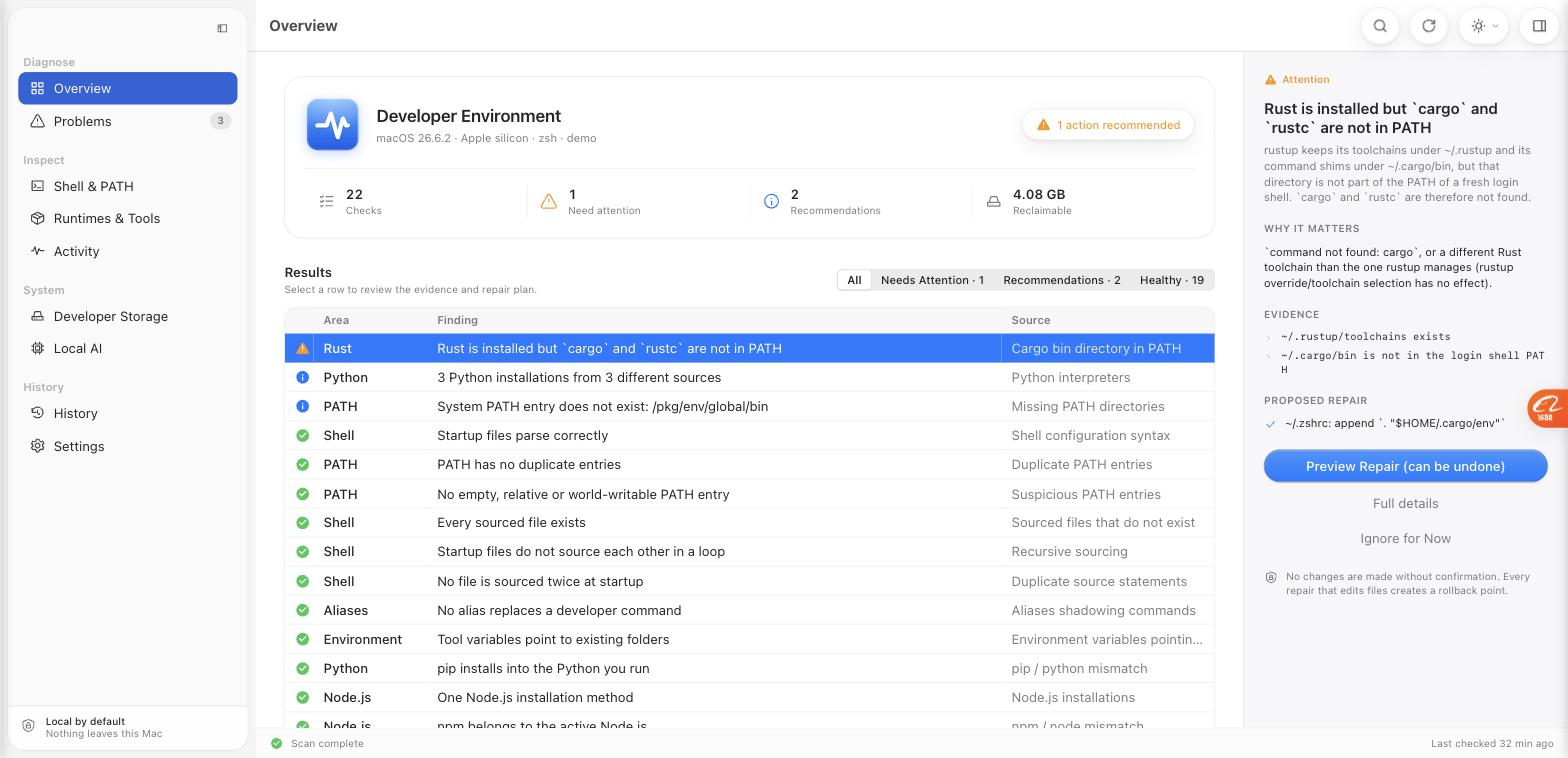
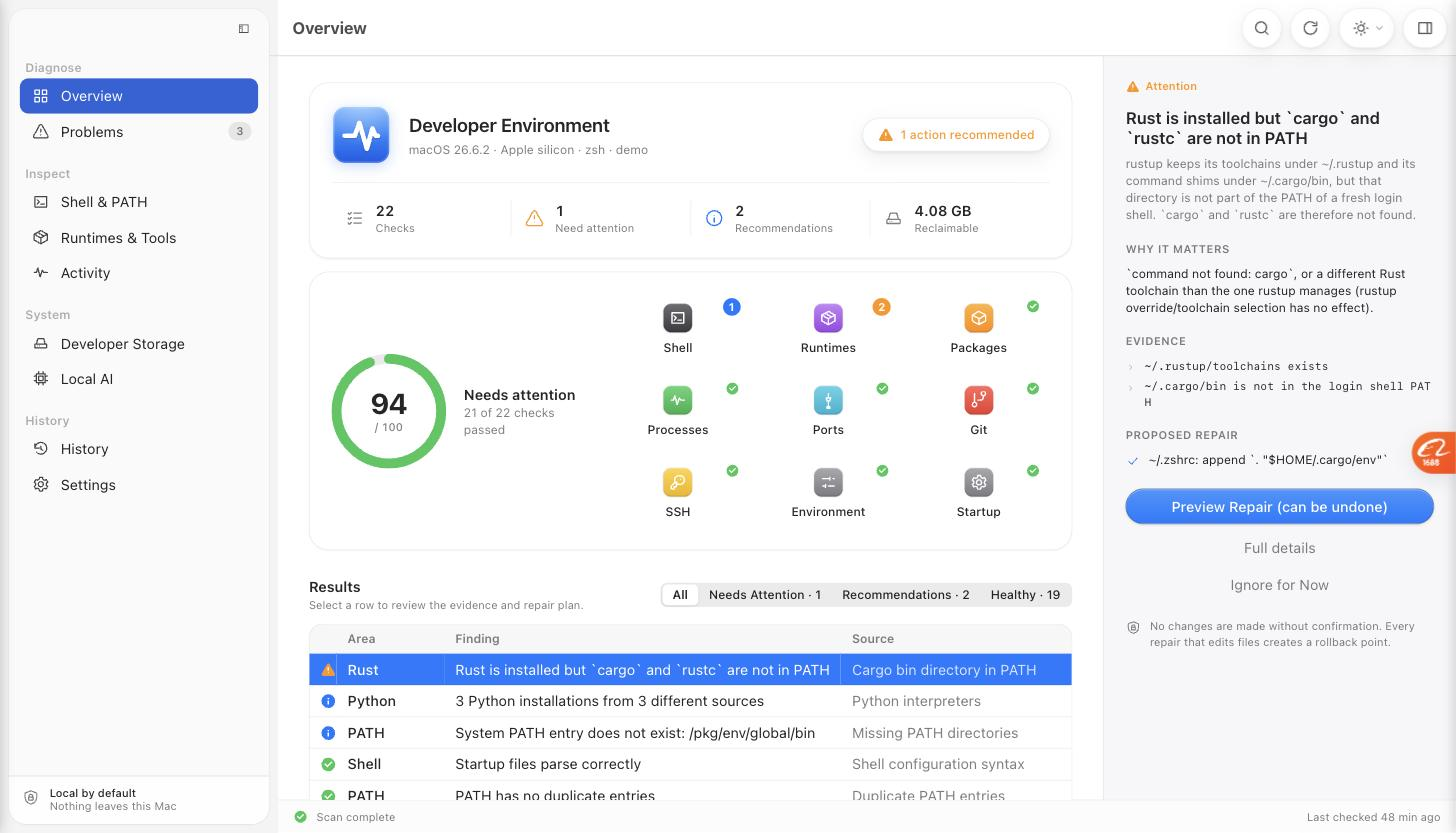
desktop: dashboard ring, Day/Night/System theme, prototype-exact geometry
- Overview: new dashboard card with a health ring and one tile per area
  (icon, count badge or green check); clicking a tile filters the results.
- Appearance: System / Day / Night applied to the native window through a
  new set_window_theme command, plus a Settings card (theme + Liquid Glass).
- Sidebar and toolbar geometry re-measured against the native prototype
  with DOM rects: toggle centre 221/26, rows 32pt from y 71.5, icon centre
  x 37, label x 55, badge 207..228, 36/50/40pt toolbar buttons with 8pt gaps.
- README highlights and screenshots refreshed.

Claude-Session: https://claude.ai/code/session_0154GFVQRPcC9vkXZbvatEC7

diff --git a/apps/desktop/src/styles.css b/apps/desktop/src/styles.css
@@ -99,13 +99,13 @@ p { margin: 5px 0; }
 .sidebar { position: absolute; left: 8px; top: 8px; bottom: 8px; width: 236px; border-radius: 16px; background: var(--bg-sidebar); box-shadow: 0 0 0 0.5px var(--sidebar-edge), 0 1px 2px rgba(0,0,0,0.04); display: flex; flex-direction: column; overflow: hidden; transition: transform .18s ease, opacity .18s ease; }
 html.no-tauri .sidebar { background: var(--bg-sidebar-opaque); }
 .window.sidebar-hidden .sidebar { transform: translateX(-260px); opacity: 0; pointer-events: none; }
-.sidebar-head { height: 40px; flex: none; display: flex; align-items: center; justify-content: flex-end; padding: 0 13px 0 76px; }
+.sidebar-head { height: 36px; flex: none; display: flex; align-items: center; justify-content: flex-end; padding: 0 11px 0 76px; }
 .sidebar-head .icon-btn { width: 24px; height: 24px; color: var(--toolbar-icon); }
 .sidebar-head .icon-btn .icon { width: 20px; height: 20px; }
-.sidebar-list { flex: 1; overflow: auto; padding: 7px 10px 8px; }
+.sidebar-list { flex: 1; overflow: auto; padding: 11px 10px 8px; }
 .side-section { height: 13px; line-height: 13px; margin: 16px 0 3px; padding: 0 5px; font-size: 11px; font-weight: 600; color: var(--sidebar-section); }
 .sidebar-list > div:first-child > .side-section { margin-top: 0; }
-.side-row { display: flex; align-items: center; gap: 8px; width: 100%; height: 32px; padding: 0 6px 0 11px; border-radius: 8px; border: 0; background: none; color: var(--label); font: inherit; font-size: 13px; text-align: left; margin: 0; }
+.side-row { display: flex; align-items: center; gap: 10px; width: 100%; height: 32px; padding: 0 6px 0 11px; border-radius: 8px; border: 0; background: none; color: var(--label); font: inherit; font-size: 13px; text-align: left; margin: 0; }
 .side-row:hover { background: var(--fill-3); }
 .side-row .icon { width: 16px; height: 16px; flex: none; color: var(--sidebar-icon); stroke-width: 1.7; }
 .side-row.active .icon { color: #fff; }
@@ -132,15 +132,15 @@ html.no-tauri .sidebar { background: var(--bg-sidebar-opaque); }
 .content.narrow { max-width: 1160px; }
 
 /* ---------- glass controls ---------- */
-.tb-btn { position: relative; display: inline-flex; align-items: center; justify-content: center; gap: 3px; height: 36px; min-width: 36px; padding: 0 10px; border-radius: var(--pill); border: 0.5px solid var(--glass-border); background: linear-gradient(var(--tint), var(--tint)), var(--glass-bg); -webkit-backdrop-filter: blur(24px) saturate(1.6); backdrop-filter: blur(24px) saturate(1.6); box-shadow: inset 0 1px 0 var(--glass-highlight), var(--glass-shadow); color: var(--label); font: inherit; }
+.tb-btn { position: relative; display: inline-flex; align-items: center; justify-content: center; gap: 3px; height: 36px; width: 36px; padding: 0; border-radius: var(--pill); border: 0.5px solid var(--glass-border); background: linear-gradient(var(--tint), var(--tint)), var(--glass-bg); -webkit-backdrop-filter: blur(24px) saturate(1.6); backdrop-filter: blur(24px) saturate(1.6); box-shadow: inset 0 1px 0 var(--glass-highlight), var(--glass-shadow); color: var(--label); font: inherit; }
 .tb-btn:hover { filter: brightness(1.03); }
 .tb-btn:active { transform: scale(0.96); }
 .tb-btn:disabled { opacity: 0.45; }
 .tb-btn { color: var(--toolbar-icon); }
 .tb-btn .icon { width: 17px; height: 17px; }
-.tb-btn.wide { padding: 0 8px 0 11px; }
+.tb-btn.wide { width: 50px; padding: 0 8px 0 11px; }
 .tb-btn .chev { width: 10px; height: 10px; color: var(--label-2); }
-.tb-group { display: inline-flex; gap: 10px; }
+.tb-group { display: inline-flex; gap: 8px; }
 
 .capsule { display: inline-flex; align-items: center; gap: 6px; padding: 7px 13px; font-size: 11px; font-weight: 500; border-radius: var(--pill); border: 0.5px solid var(--glass-border); background: linear-gradient(var(--tint), var(--tint)), var(--glass-bg); -webkit-backdrop-filter: blur(20px); backdrop-filter: blur(20px); box-shadow: inset 0 1px 0 var(--glass-highlight), var(--glass-shadow); }
 .capsule .icon { width: 15px; height: 15px; }
@@ -335,3 +335,21 @@ textarea.report { width: 100%; height: 280px; font-family: var(--mono); font-siz
 .onboarding .promise .p-body { font-size: 11.5px; color: var(--label-2); }
 
 @media (prefers-reduced-motion: reduce) { *, *::before, *::after { animation: none !important; transition: none !important; } }
+
+/* ---------- dashboard ---------- */
+.dashboard { margin-top: 12px; display: grid; grid-template-columns: 230px 1fr; gap: 20px; align-items: center; padding: 18px 20px; }
+.dash-score { display: flex; align-items: center; gap: 16px; }
+.ring { position: relative; }
+.ring svg { transform: rotate(-90deg); display: block; }
+.ring .num { position: absolute; inset: 0; display: flex; flex-direction: column; align-items: center; justify-content: center; font-weight: 700; font-size: 26px; letter-spacing: -0.02em; line-height: 1; font-variant-numeric: tabular-nums; }
+.ring .num small { font-size: 10px; font-weight: 500; color: var(--label-2); margin-top: 3px; letter-spacing: 0; }
+.dash-tiles { display: grid; grid-template-columns: repeat(auto-fill, minmax(112px, 1fr)); gap: 8px; }
+.dash-tile { display: flex; flex-direction: column; align-items: center; gap: 6px; padding: 10px 6px 8px; border-radius: 10px; border: 0.5px solid transparent; background: transparent; font: inherit; color: var(--label); position: relative; }
+.dash-tile:hover { background: var(--fill-4); border-color: var(--separator); }
+.dash-tile.active { background: var(--accent-soft); border-color: color-mix(in srgb, var(--accent) 40%, transparent); }
+.dash-tile .dt-label { font-size: 11px; font-weight: 500; white-space: nowrap; }
+.dash-tile .dt-ok { position: absolute; top: 6px; right: 8px; width: 13px; height: 13px; color: var(--green); }
+.dash-tile .dt-count { position: absolute; top: 5px; right: 7px; min-width: 16px; height: 16px; padding: 0 5px; border-radius: 8px; background: var(--blue); color: #fff; font-size: 10px; font-weight: 700; display: inline-flex; align-items: center; justify-content: center; }
+.dash-tile .dt-count.warn { background: var(--orange); }
+.tile { display: inline-flex; align-items: center; justify-content: center; color: #fff; flex: none; box-shadow: inset 0 -1px 0 rgba(0,0,0,0.12), inset 0 0.5px 0 rgba(255,255,255,0.35), 0 0.5px 1px rgba(0,0,0,0.25); }
+.tile .icon { stroke-width: 1.9; }

diff --git a/apps/desktop/src/components/Dashboard.tsx b/apps/desktop/src/components/Dashboard.tsx
@@ -1,0 +1,67 @@
+// Simple health dashboard: a score ring and one tile per area, after the macOS System Settings
+// look. Clicking a tile filters the results table below.
+import type { Category, HealthScore, Issue } from "../lib/types";
+import { CATEGORY_PLAIN } from "../lib/plain";
+import { Icon, type IconName } from "./Icons";
+import { Tile, type TileColor } from "./Tile";
+
+const AREA: Record<Category, { icon: IconName; color: TileColor }> = {
+  shell: { icon: "terminal", color: "graphite" },
+  runtimes: { icon: "shippingbox", color: "purple" },
+  package_managers: { icon: "box", color: "orange" },
+  processes: { icon: "waveform", color: "green" },
+  ports: { icon: "cable", color: "teal" },
+  ai_tools: { icon: "cpu", color: "pink" },
+  disk: { icon: "internaldrive", color: "indigo" },
+  git: { icon: "git", color: "red" },
+  ssh: { icon: "key", color: "yellow" },
+  containers: { icon: "box", color: "blue" },
+  environment: { icon: "sliders", color: "gray" },
+  services: { icon: "gear", color: "gray" },
+};
+
+export function HealthRing({ score, size = 104 }: { score: number; size?: number }) {
+  const stroke = 9;
+  const r = (size - stroke) / 2;
+  const c = 2 * Math.PI * r;
+  const color = score >= 85 ? "var(--green)" : score >= 60 ? "var(--orange)" : "var(--red)";
+  return (
+    <div className="ring" style={{ width: size, height: size }}>
+      <svg width={size} height={size} viewBox={`0 0 ${size} ${size}`}>
+        <circle cx={size / 2} cy={size / 2} r={r} stroke="var(--fill-2)" strokeWidth={stroke} fill="none" />
+        <circle cx={size / 2} cy={size / 2} r={r} stroke={color} strokeWidth={stroke} fill="none" strokeLinecap="round" strokeDasharray={c} strokeDashoffset={c * (1 - Math.max(0, Math.min(100, score)) / 100)} style={{ transition: "stroke-dashoffset .6s cubic-bezier(.2,.8,.2,1)" }} />
+      </svg>
+      <div className="num">{score}<small>/ 100</small></div>
+    </div>
+  );
+}
+
+export function Dashboard({ health, issues, selected, onSelect }: { health: HealthScore | undefined; issues: Issue[]; selected: Category | null; onSelect: (c: Category | null) => void }) {
+  const cats = (health?.categories ?? []).filter((c) => c.checks_run > 0 || c.issues > 0);
+  const label = !health ? "Not checked yet" : health.problems === 0 && health.warnings === 0 ? "Healthy" : health.problems === 0 ? "Almost perfect" : "Needs attention";
+  const sub = !health ? "Run a scan to see your score." : `${health.checks_passed} of ${health.checks_total} checks passed`;
+  return (
+    <div className="card dashboard">
+      <div className="dash-score">
+        <HealthRing score={health?.score ?? 0} />
+        <div><div className="headline">{label}</div><div className="caption secondary">{sub}</div></div>
+      </div>
+      <div className="dash-tiles">
+        {cats.map((c) => {
+          const meta = AREA[c.category];
+          const count = issues.filter((i) => i.category === c.category).length;
+          const attention = issues.some((i) => i.category === c.category && (i.severity === "critical" || i.severity === "high" || i.severity === "medium"));
+          const active = selected === c.category;
+          return (
+            <button key={c.category} className={`dash-tile ${active ? "active" : ""}`} onClick={() => onSelect(active ? null : c.category)} title={`${c.checks_run} check${c.checks_run === 1 ? "" : "s"} · ${count} finding${count === 1 ? "" : "s"}`}>
+              <Tile color={meta.color} icon={meta.icon} size={26} />
+              <span className="dt-label">{CATEGORY_PLAIN[c.category]}</span>
+              {count === 0 ? <Icon name="check-circle-fill" className="dt-ok" /> : <span className={`dt-count ${attention ? "warn" : ""}`}>{count}</span>}
+            </button>
+          );
+        })}
+        {cats.length === 0 && <div className="secondary caption">Areas appear here after the first scan.</div>}
+      </div>
+    </div>
+  );
+}

diff --git a/apps/desktop/src/pages/Overview.tsx b/apps/desktop/src/pages/Overview.tsx
@@ -1,10 +1,11 @@
 import { useMemo, useState } from "react";
 import { api } from "../lib/api";
 import { useAsync } from "../lib/useAsync";
-import type { DetectorMeta, Issue } from "../lib/types";
+import type { Category, DetectorMeta, Issue } from "../lib/types";
 import { findingFromIssue, healthyFinding, type Finding } from "../lib/plain";
 import { Button, ErrorBox, Loading, PageHeader, Segmented } from "../components/Basics";
 import { EnvironmentHeader } from "../components/EnvironmentHeader";
+import { Dashboard } from "../components/Dashboard";
 import { FindingInspector, FindingsTable, RepairSheet, detectorName, filterByLevel, useFindings, useRepairActions, type ResultFilter } from "../components/FindingsView";
 import { Icon } from "../components/Icons";
 import { Logo } from "../components/Logo";
@@ -33,6 +34,7 @@ export function OverviewPage({ refreshKey, refresh, detectors, inspector, onboar
   const issues = useAsync(() => api.issues(false), [refreshKey]);
   const storage = useAsync(() => api.lastStorage(), [refreshKey]);
   const [filter, setFilter] = useState<ResultFilter>("all");
+  const [area, setArea] = useState<Category | null>(null);
   const findings: Finding[] = useMemo(() => {
     const open = (issues.data ?? []).map((r) => findingFromIssue(r.issue, detectorName(detectors, r.issue.detector_id)));
     const reported = new Set(open.map((f) => f.detectorId));
@@ -40,7 +42,7 @@ export function OverviewPage({ refreshKey, refresh, detectors, inspector, onboar
     const order = { attention: 0, recommendation: 1, healthy: 2 };
     return [...open, ...healthy].sort((a, b) => order[a.level] - order[b.level]);
   }, [issues.data, report.data, detectors]);
-  const visible = useMemo(() => filterByLevel(findings, filter), [findings, filter]);
+  const visible = useMemo(() => filterByLevel(findings, filter).filter((f) => !area || f.category === area), [findings, filter, area]);
   const { selected, selectedKey, setSelectedKey, repairing, setRepairing } = useFindings(visible);
   const actions = useRepairActions(refresh);
   if (ov.loading && !ov.data) return <Loading what="overview" />;
@@ -53,6 +55,7 @@ export function OverviewPage({ refreshKey, refresh, detectors, inspector, onboar
       <div className="content">
         {onboarding && <Onboarding onStart={() => { onOnboardingDone(); onScan(); }} onSkip={onOnboardingDone} />}
         <EnvironmentHeader overview={o} reclaimable={reclaimable} />
+        <Dashboard health={o.health} issues={(issues.data ?? []).map((r) => r.issue)} selected={area} onSelect={setArea} />
         {!o.health && !onboarding && (
           <div className="card" style={{ marginTop: 16 }}>
             <p className="subheadline">No scan yet. A quick scan takes about a second and changes nothing.</p>
@@ -60,7 +63,7 @@ export function OverviewPage({ refreshKey, refresh, detectors, inspector, onboar
           </div>
         )}
         {o.warnings.map((w, i) => <div key={i} className="notice">{w}</div>)}
-        <PageHeader title="Results" subtitle="Select a row to review the evidence and repair plan." actions={
+        <PageHeader title={area ? `Results · ${area === "package_managers" ? "Packages" : area.replace("_", " ")}` : "Results"} subtitle="Select a row to review the evidence and repair plan." actions={
           <Segmented value={filter} onChange={(v) => setFilter(v as ResultFilter)} options={[{ id: "all", label: "All" }, { id: "attention", label: `Needs Attention${counts.attention ? ` · ${counts.attention}` : ""}` }, { id: "recommendation", label: `Recommendations${counts.recommendation ? ` · ${counts.recommendation}` : ""}` }, { id: "healthy", label: `Healthy${counts.healthy ? ` · ${counts.healthy}` : ""}` }]} />
         } />
         <FindingsTable findings={visible} selected={selectedKey} onSelect={(f) => setSelectedKey(f.key)} empty={o.health ? "No results for this filter." : "Run a scan to see results."} />

diff --git a/apps/desktop/src/pages/MiscPages.tsx b/apps/desktop/src/pages/MiscPages.tsx
@@ -3,7 +3,8 @@ import { api, errorMessage } from "../lib/api";
 import { useAsync } from "../lib/useAsync";
 import { useNav } from "../lib/nav";
 import { formatBytes, formatDate, formatMs, shortenHome } from "../lib/format";
-import { Button, Card, DataTable, ErrorBox, KeyValue, Loading, PageHeader, PathLink, Pill, StatusPill, Switch, Term, usePrefs } from "../components/Basics";
+import { Button, Card, DataTable, ErrorBox, KeyValue, Loading, PageHeader, PathLink, Pill, Segmented, StatusPill, Switch, Term, usePrefs, type Appearance, type Glass } from "../components/Basics";
+import { Logo } from "../components/Logo";
 import { TransactionView } from "../components/TransactionView";
 
 export function ServicesPage({ refreshKey }: { refreshKey: number }) {
@@ -132,7 +133,7 @@ export function HistoryPage({ refreshKey }: { refreshKey: number }) {
 }
 
 export function SettingsPage({ autoScan, onAutoScan }: { autoScan: boolean; onAutoScan: (v: boolean) => void }) {
-  const { technical, setTechnical } = usePrefs();
+  const { technical, setTechnical, appearance, setAppearance, glass, setGlass } = usePrefs();
   const sys = useAsync(() => api.system(), []);
   const detectors = useAsync(() => api.detectors(), []);
   const [report, setReport] = useState<string | null>(null);
@@ -144,12 +145,18 @@ export function SettingsPage({ autoScan, onAutoScan }: { autoScan: boolean; onAu
   return (
     <div className="page">
       <div className="grid cols-2">
+        <Card title="Appearance">
+          <div className="switch-row"><span>Theme<div className="secondary caption">Applies to the window, the sidebar glass and the title bar.</div></span><Segmented value={appearance} onChange={(v) => setAppearance(v as Appearance)} options={[{ id: "system", label: "System" }, { id: "light", label: "Day" }, { id: "dark", label: "Night" }]} /></div>
+          <div className="hairline" />
+          <div className="switch-row"><span>Liquid Glass<div className="secondary caption">Tinted adds a hint of the accent colour to glass controls.</div></span><Segmented value={glass} onChange={(v) => setGlass(v as Glass)} options={[{ id: "clear", label: "Clear" }, { id: "tinted", label: "Tinted" }]} /></div>
+        </Card>
         <Card title="Preferences">
           <Switch on={autoScan} onChange={onAutoScan} label={<span>Check automatically when DevDoctor opens<div className="muted small">Runs a quick check if the last one is older than an hour.</div></span>} />
           <div className="hairline" />
           <Switch on={technical} onChange={setTechnical} label={<span>Show technical details<div className="muted small">Detector ids, raw severities, evidence and diffs shown by default.</div></span>} />
         </Card>
         <Card title="About">
+          <div style={{ display: "flex", alignItems: "center", gap: 14, marginBottom: 12 }}><Logo size={48} /><div><div className="title3">DevDoctor</div><div className="secondary caption">Find what broke your development environment.</div></div></div>
           {sys.data && <KeyValue rows={[["Version", sys.data.devdoctor_version], ["Data folder", <span className="mono selectable">{sys.data.data_dir}</span>], ["User", sys.data.user], ["Shell", `${sys.data.shell} (${sys.data.shell_path})`], ["macOS", `${sys.data.os.version} ${sys.data.os.build ?? ""} · ${sys.data.os.arch}`]]} />}
           <p className="muted small" style={{ marginTop: 10 }}>Everything runs on this Mac. No account, no telemetry, no network. Backups of every modified file live in the data folder.</p>
         </Card>

diff --git a/apps/desktop/src/App.tsx b/apps/desktop/src/App.tsx
@@ -69,6 +69,7 @@ function Shell() {
       setGlassState(g);
       setInspectorState(s.inspector !== false);
       applyAppearance(a, g);
+      api.setWindowTheme(a).catch(() => {});
       setSettingsLoaded(true);
     }).catch(() => setSettingsLoaded(true));
     const mq = window.matchMedia("(prefers-color-scheme: dark)");
@@ -128,7 +129,7 @@ function Shell() {
 
   const setTechnical = (v: boolean) => { setTechnicalState(v); api.setSetting("technical_details", v).catch(() => {}); };
   const setAutoScan = (v: boolean) => { setAutoScanState(v); api.setSetting("auto_scan_on_launch", v).catch(() => {}); };
-  const setAppearance = (v: Appearance) => { setAppearanceState(v); applyAppearance(v, glass); api.setSetting("appearance", v).catch(() => {}); };
+  const setAppearance = (v: Appearance) => { setAppearanceState(v); applyAppearance(v, glass); api.setWindowTheme(v).catch(() => {}); api.setSetting("appearance", v).catch(() => {}); };
   const setGlass = (v: Glass) => { setGlassState(v); applyAppearance(appearance, v); api.setSetting("glass", v).catch(() => {}); };
   const toggleInspector = () => { setInspectorState((i) => { api.setSetting("inspector", !i).catch(() => {}); return !i; }); };
   const finishOnboarding = () => { setOnboarding(false); api.setSetting("onboarding_done", true).catch(() => {}); };

diff --git a/apps/desktop/src/lib/plain.ts b/apps/desktop/src/lib/plain.ts
@@ -104,6 +104,7 @@ export const HEALTHY: Record<string, string> = {
 export interface Finding {
   key: string;
   level: Level;
+  category: Category;
   area: string;
   title: string;
   source: string;
@@ -116,6 +117,7 @@ export function findingFromIssue(issue: Issue, detectorName: string | undefined)
   return {
     key: issue.id,
     level: levelOf(issue.severity),
+    category: issue.category,
     area: areaOf(issue.detector_id, issue.category),
     title: issue.title,
     source: detectorName ?? issue.detector_id,
@@ -129,6 +131,7 @@ export function healthyFinding(run: DetectorRun, category: Category): Finding {
   return {
     key: `ok:${run.id}`,
     level: "healthy",
+    category,
     area: areaOf(run.id, category),
     title: HEALTHY[run.id] ?? `${run.name}: nothing found`,
     source: run.name,

diff --git a/apps/desktop/src/lib/demo.ts b/apps/desktop/src/lib/demo.ts
@@ -164,6 +164,7 @@ export async function mockInvoke<T>(cmd: string, args: Record<string, unknown> =
     case "set_setting": state.settings[String(args.key)] = args.value; return r(null);
     case "get_detectors": return r(detectors);
     case "reveal_path": return r(null);
+    case "set_window_theme": return r(null);
     case "export_report": return r({ generated_at: new Date().toISOString(), devdoctor_version: "0.1.0", sanitized: true, included: ["system information", "last scan results", "PATH", "shell startup files", "runtimes and tools", "startup services"], system, last_scan: state.report, path, shell, runtimes, packages, tools, services });
     default: throw new Error(`demo mode: unknown command ${cmd}`);
   }

diff --git a/apps/desktop/src/lib/api.ts b/apps/desktop/src/lib/api.ts
@@ -63,6 +63,7 @@ export const api = {
   setSetting: (key: string, value: unknown) => invoke<void>("set_setting", { key, value }),
   detectors: () => invoke<DetectorMeta[]>("get_detectors"),
   reveal: (path: string) => invoke<void>("reveal_path", { path }),
+  setWindowTheme: (theme: "system" | "light" | "dark") => (inTauri ? invoke<void>("set_window_theme", { theme }) : Promise.resolve()),
   exportReport: () => invoke<DiagnosticReport>("export_report"),
 };
 

diff --git a/apps/desktop/src-tauri/src/lib.rs b/apps/desktop/src-tauri/src/lib.rs
@@ -306,6 +306,18 @@ async fn get_detectors(state: State<'_, AppState>) -> CmdResult<Vec<devdoctor::d
 }
 
 #[tauri::command]
+fn set_window_theme(handle: AppHandle, theme: String) -> CmdResult<()> {
+    use tauri::Manager;
+    let window = handle.get_webview_window("main").ok_or_else(|| "main window not found".to_string())?;
+    let theme = match theme.as_str() {
+        "light" => Some(tauri::Theme::Light),
+        "dark" => Some(tauri::Theme::Dark),
+        _ => None,
+    };
+    window.set_theme(theme).map_err(|e| e.to_string())
+}
+
+#[tauri::command]
 async fn reveal_path(state: State<'_, AppState>, path: String) -> CmdResult<()> {
     blocking(state.app.clone(), move |a| a.reveal(&PathBuf::from(path))).await
 }
@@ -402,6 +414,7 @@ pub fn run() {
             get_detectors,
             reveal_path,
             export_report,
+            set_window_theme,
         ])
         .run(tauri::generate_context!())
         .expect("error while running DevDoctor");

diff --git a/README.md b/README.md
@@ -33,9 +33,10 @@ It answers the question every developer eventually asks:
 - Environment snapshots and "What changed" diffs
 - Safe fixes: exact preview, backups, post-fix validation, automatic rollback, manual rollback
 - Desktop app (Tauri + React) and CLI sharing one Rust engine
-- Native macOS 26 interface: translucent sidebar with colored section tiles, results table with
-  a details inspector, "Preview Repair" sheet, appearance and Liquid Glass options; plain-language
-  explanations for beginners with a "Technical details" switch for experts
+- Native macOS 26 interface: floating translucent sidebar, health ring dashboard with one tile per
+  area, results table with a details inspector, "Preview Repair" sheet, Day / Night / System
+  appearance and Liquid Glass options; plain-language explanations for beginners with a
+  "Technical details" switch for experts
 - Fully local: no account, no telemetry, no network access
 
 ## Status
